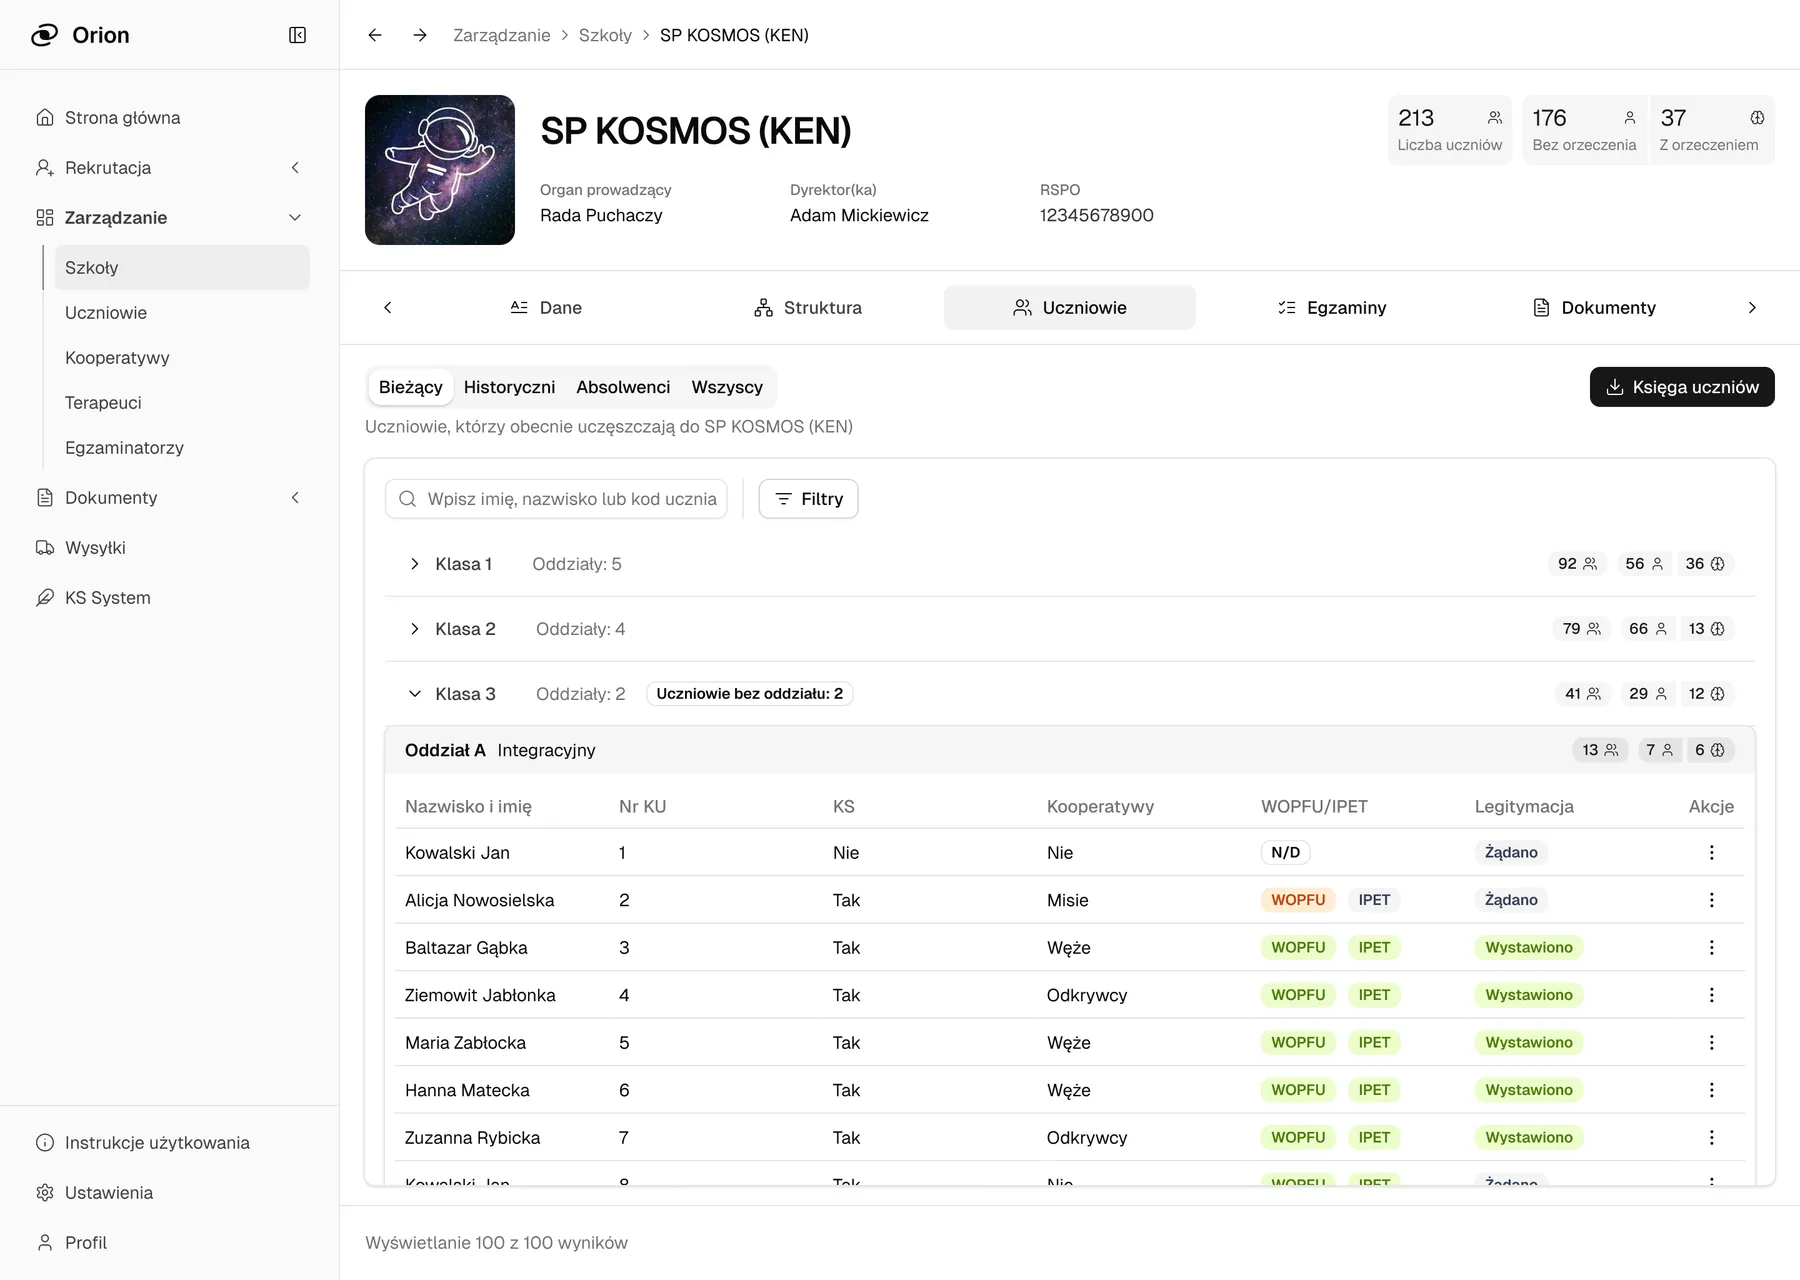
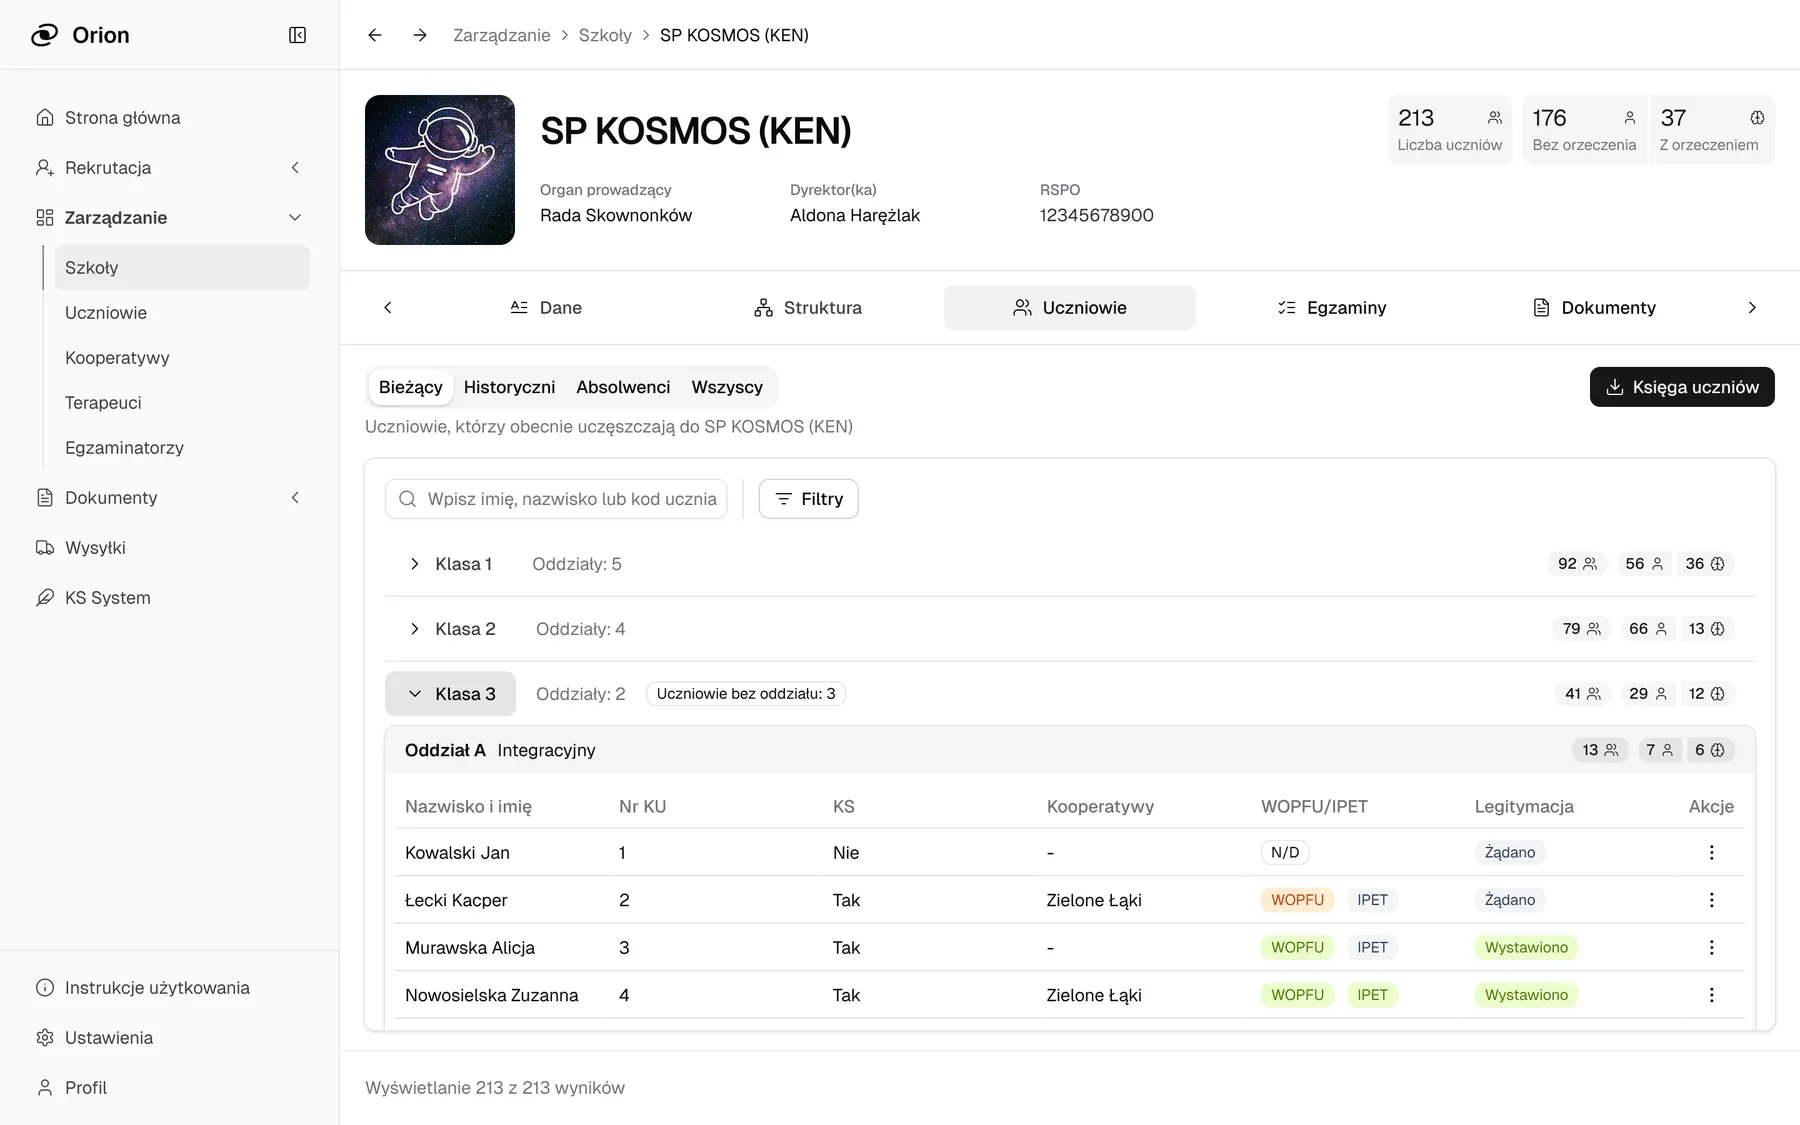
Swap Orion/Change hero images, show uncropped like Drifthub
Converted the newly supplied PNGs to WebP (1800px wide, quality 80).
Both are 1800x1125 (native 8:5 ratio), so applied the same coverAspect
treatment introduced for Drifthub's hero - displayed uncropped at their
native ratio instead of the default 880:473 crop.

diff --git a/src/pages/Orion.tsx b/src/pages/Orion.tsx
@@ -21,6 +21,7 @@ export default function Orion() {
       glow={glow}
       cover={cover}
       heroShadow
+      coverAspect="1800 / 1125"
       context="Orion is a bespoke CRM for a network of homeschooling schools. The rules around student status, cooperative structures, exams, and subsidies are specific enough that no established software could handle them. Seven months in: 275 screens, five user types, a live MVP in testing."
       problem="Five user types, interlocking flows, and time-regulated processes that kept shifting mid-project. Most users were meeting the domain for the first time, often with limited digital literacy. All of it built without formal research or stable requirements, in a two-person team."
       retro="Lightweight research early on would have cut the assumptions baked into the design. A dedicated product owner could have caught shifting requirements before they reached screens already in production. The working method compensated for a lot – but it was a response to the conditions, not a deliberate choice."

diff --git a/src/pages/Change.tsx b/src/pages/Change.tsx
@@ -19,6 +19,7 @@ export default function Change() {
       meta={data.subtitle}
       glow={glow}
       cover={cover}
+      coverAspect="1800 / 1125"
       context="Change is a boutique English academy in Toruń, twenty years of reputation built by word of mouth. New parents came through referrals, so the website's job wasn't to attract – it was to confirm what they'd already heard."
       problem="The school had a genuine identity built over twenty years. The website communicated none of it – it looked like any other language school, working against the trust already earned."
       retro="Starting without a baseline meant no reference point for measuring what changed. A lightweight reception exercise before the redesign would have sharpened the brief and made decisions easier to defend. The affinity framework worked well as a retro instrument after the fact – applying that rigour earlier is what I'd carry forward next time. Some visual decisions were made on instinct where systematic reasoning would have served better."
